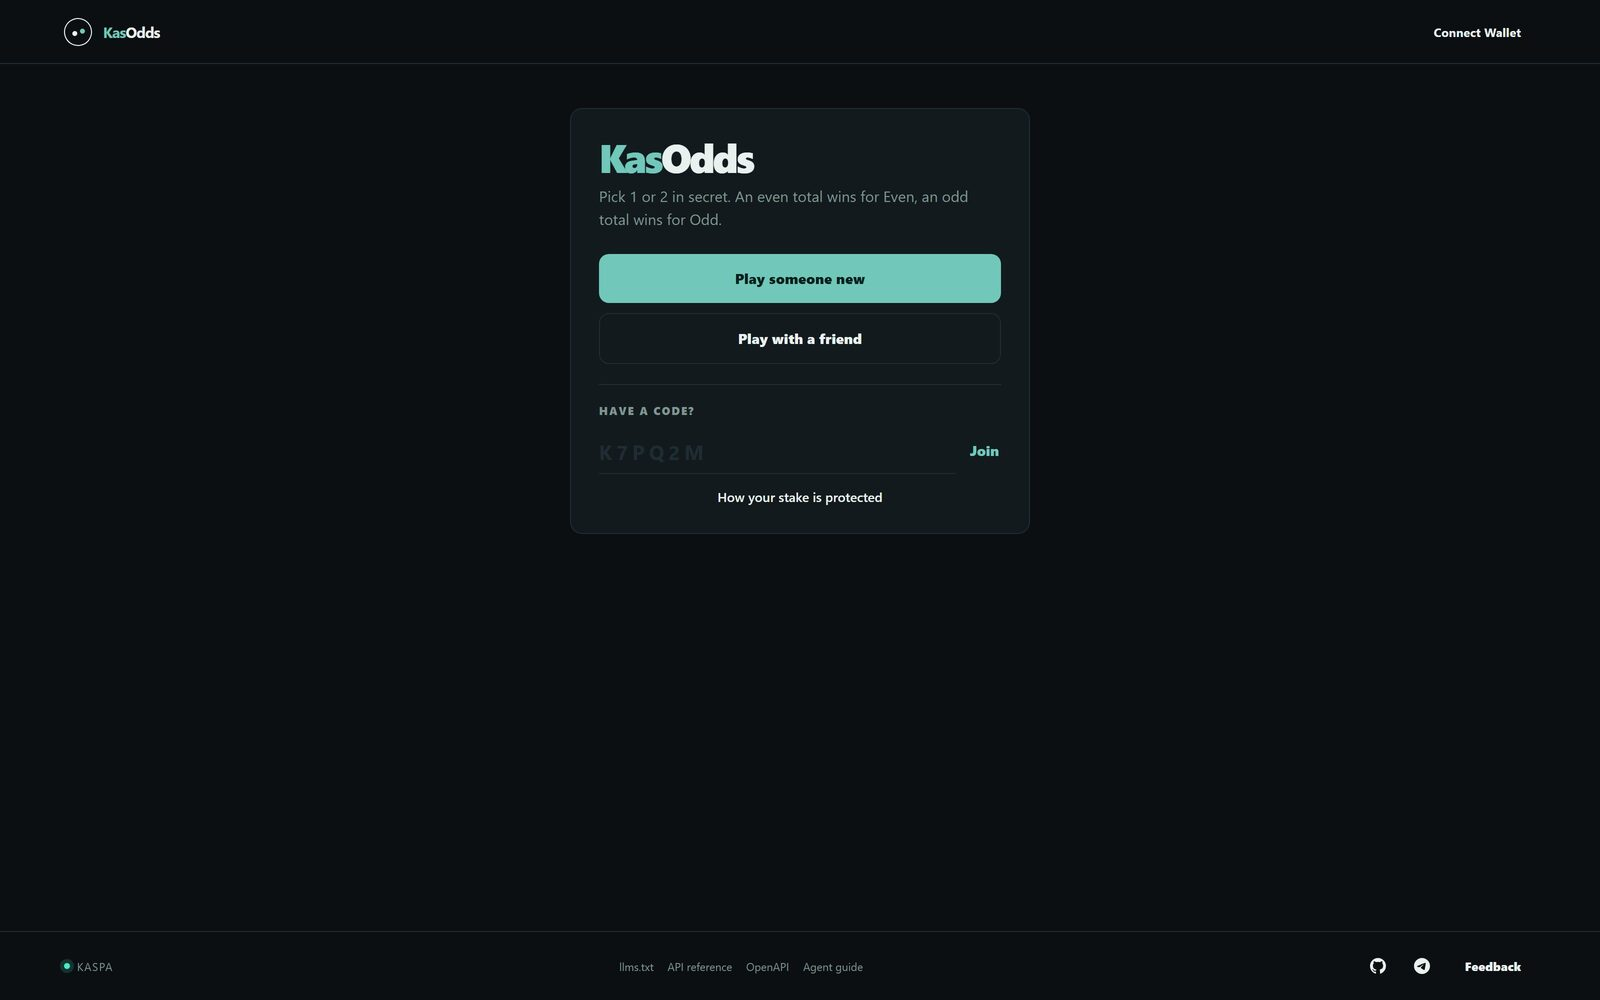
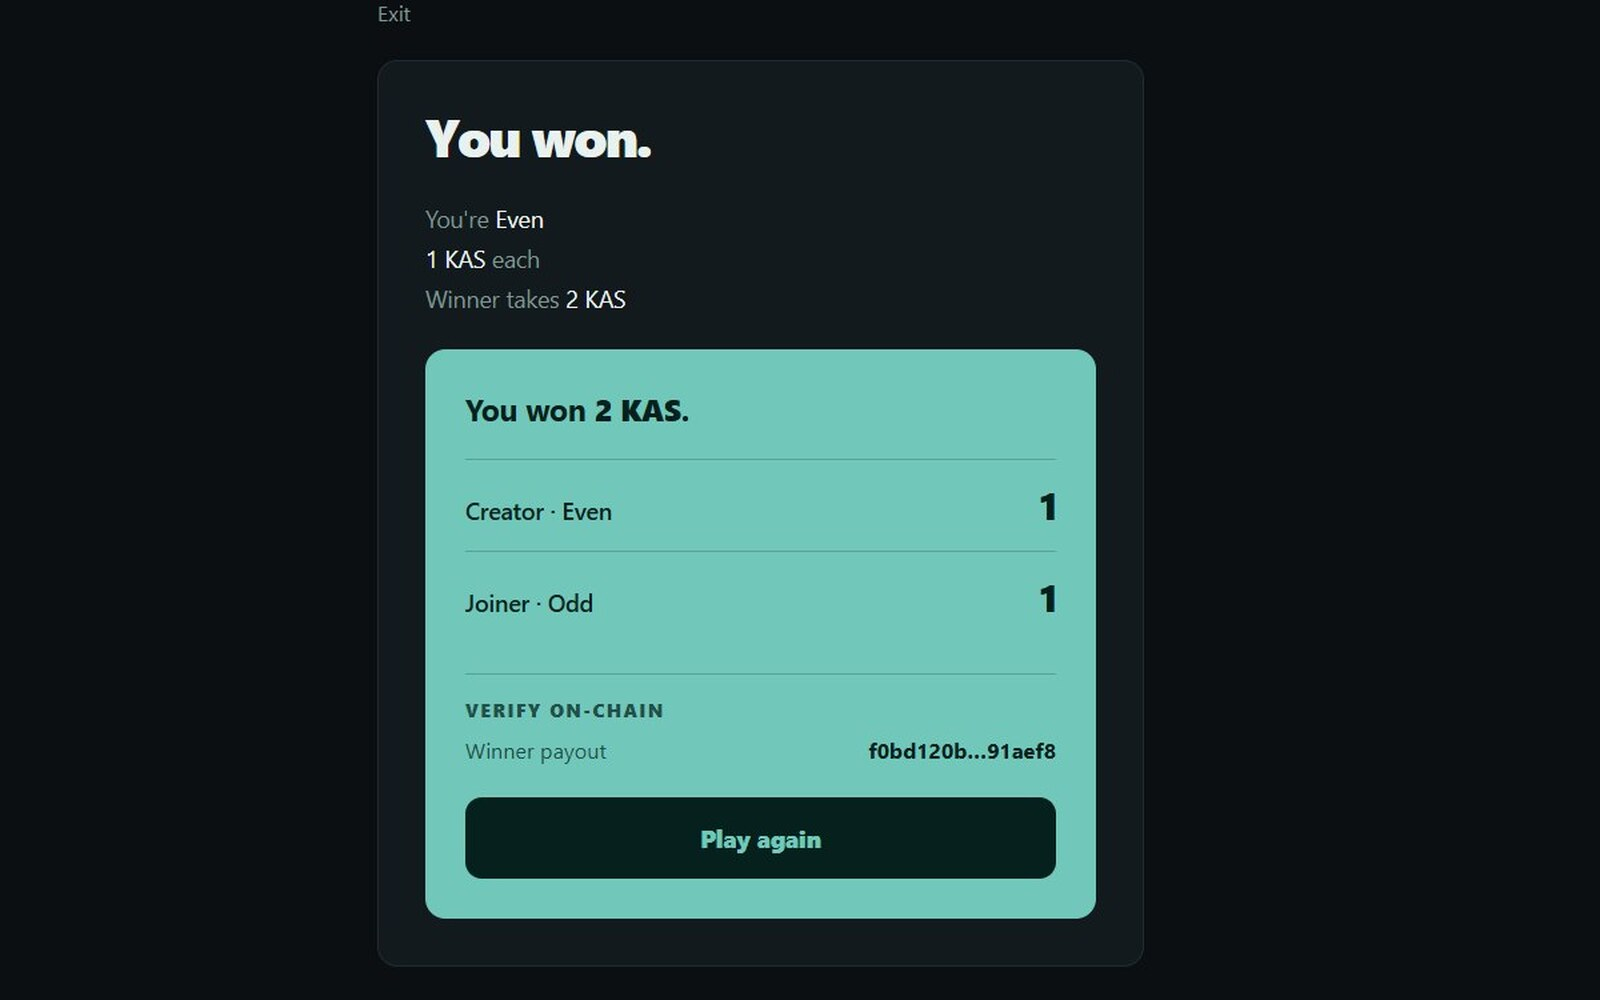
fix: show a finished KasOdds game in the apps card

diff --git a/he.html b/he.html
@@ -144,7 +144,7 @@
 
         <article class="product-card" data-reveal>
           <figure class="frame">
-            <img src="assets/img/apps/kasodds.jpg" width="1600" height="1000" alt="לובי KasOdds עם אפשרות לשחק עם מישהו חדש או עם חבר." loading="lazy" decoding="async" />
+            <img src="assets/img/apps/kasodds.jpg" width="1600" height="1000" alt="מסך התוצאה של KasOdds ממשחק חי: היוצר והמצטרף בחרו 1, והמנצח זכה בקופה של 2 KAS." loading="lazy" decoding="async" />
           </figure>
           <p class="app-meta"><span>משחק on-chain</span><span class="status">פעיל</span></p>
           <h3><a href="https://kasodds.com/" target="_blank" rel="noopener noreferrer">KasOdds</a></h3>

diff --git a/index.html b/index.html
@@ -142,7 +142,7 @@
 
         <article class="product-card" data-reveal>
           <figure class="frame">
-            <img src="assets/img/apps/kasodds.jpg" width="1600" height="1000" alt="KasOdds lobby with options to play someone new or play with a friend." loading="lazy" decoding="async" />
+            <img src="assets/img/apps/kasodds.jpg" width="1600" height="1000" alt="KasOdds result screen from a live game: both players picked 1, an even total, and the Even side took the 2 KAS pot." loading="lazy" decoding="async" />
           </figure>
           <p class="app-meta"><span>On-chain game</span><span class="status">Live</span></p>
           <h3><a href="https://kasodds.com/" target="_blank" rel="noopener noreferrer">KasOdds</a></h3>
